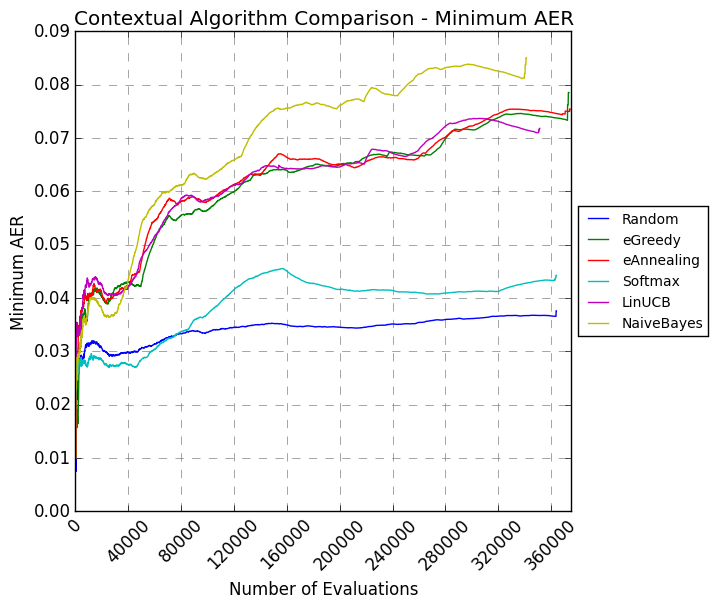
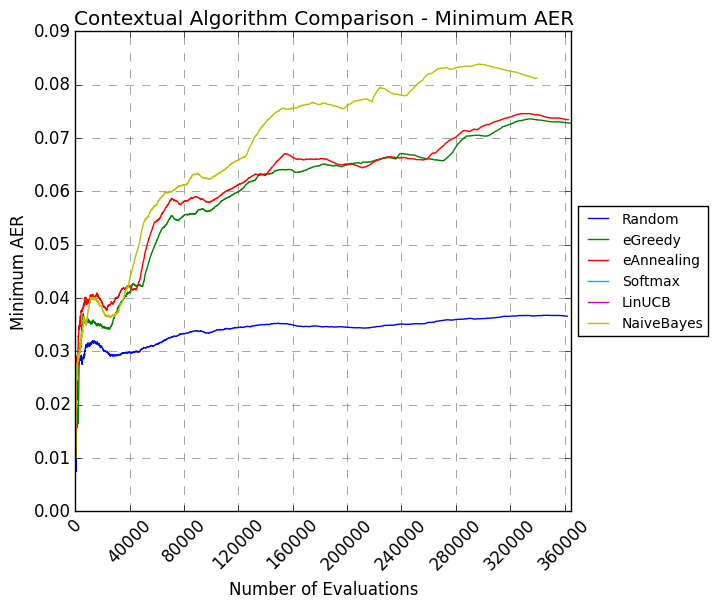
Trimming ensembles to two models

diff --git a/exploChallenge/policies/EnsembleBayesianUpdateAll.py b/exploChallenge/policies/EnsembleBayesianUpdateAll.py
@@ -24,18 +24,11 @@ class EnsembleBayesianUpdateAllModel(ContextualBanditPolicy):
         self.regressor = regressor
         self.prior_alpha = 1.0
         self.prior_beta = 1.0
-        self.policy_one = eAnnealing()
-        self.policy_two = MostCTR()
-        self.policy_three = NaiveBayesContextual()
-        self.policies = [self.policy_one, self.policy_two, self.policy_three]
-        #self.policy_one_count = 0
-        #self.policy_two_count = 0
-        #self.policy_three_count = 0
-        #self.policy_counts = [self.policy_one_count, self.policy_two_count, self.policy_three_count]
+        self.policy_one = MostCTR()
+        self.policy_two = NaiveBayesContextual()
+        self.policies = [self.policy_one, self.policy_two]
+
         self.policy_counts = {}
-        #self.policy_one_successes = 0
-        #self.policy_two_successes = 0
-        #self.policy_three_successes = 0
         self.policy_successes = {}
         self.chosen_policy = None
 
@@ -67,16 +60,12 @@ class EnsembleBayesianUpdateAllModel(ContextualBanditPolicy):
             self.chosen_policy =  str(self.policies[0])
         elif (sampled_theta.index(max(sampled_theta)) == 1):
             self.chosen_policy = str(self.policies[1])
-        elif (sampled_theta.index(max(sampled_theta)) == 2):
-            self.chosen_policy = str(self.policies[2])
         #print "Policy chosen was " + str(self.chosen_policy)
 
-        if (re.match('<exploChallenge\.policies\.eAnnealing',self.chosen_policy)):
+        if (re.match('<exploChallenge\.policies\.MostCTR',self.chosen_policy)):
             return self.policy_one.getActionToPerform(visitor, possibleActions)
-        elif (re.match('<exploChallenge\.policies\.MostCTR',self.chosen_policy)):
-            return self.policy_two.getActionToPerform(visitor, possibleActions)
         elif (re.match('<exploChallenge\.policies\.Naive',self.chosen_policy)):
-            return self.policy_three.getActionToPerform(visitor, possibleActions)
+            return self.policy_two.getActionToPerform(visitor, possibleActions)
         else:
             print "Error in getActionToPerform!"
             return
@@ -90,10 +79,6 @@ class EnsembleBayesianUpdateAllModel(ContextualBanditPolicy):
             pass
         try:
             self.policy_two.updatePolicy(content, chosen_arm, reward)
-        except:
-            pass
-        try:
-            self.policy_three.updatePolicy(content, chosen_arm, reward)
         except:
             pass
 

diff --git a/exploChallenge/policies/EnsembleSoftmaxUpdateAllModel.py b/exploChallenge/policies/EnsembleSoftmaxUpdateAllModel.py
@@ -27,10 +27,9 @@ class EnsembleSoftmaxUpdateAllModel(ContextualBanditPolicy):
 
     def __init__(self, temp):
         # Create an object from each class to use for ensemble model
-        self.policy_one = eAnnealing()
-        self.policy_two = MostCTR()
-        self.policy_three = NaiveBayesContextual()
-        self.policies = [self.policy_one, self.policy_two, self.policy_three]
+        self.policy_one = MostCTR()
+        self.policy_two = NaiveBayesContextual()
+        self.policies = [self.policy_one, self.policy_two]
         self.policy_counts = {}
         self.policy_scores = {}
         self.chosen_policy = None
@@ -61,12 +60,10 @@ class EnsembleSoftmaxUpdateAllModel(ContextualBanditPolicy):
         #print self.chosen_policy
         #print "ID equals: " + str(self.chosen_policy)
 
-        if (re.match('<exploChallenge\.policies\.eAnnealing',self.chosen_policy)):
+        if (re.match('<exploChallenge\.policies\.MostCTR',self.chosen_policy)):
             return self.policy_one.getActionToPerform(visitor, possibleActions)
-        elif (re.match('<exploChallenge\.policies\.MostCTR',self.chosen_policy)):
-            return self.policy_two.getActionToPerform(visitor, possibleActions)
         elif (re.match('<exploChallenge\.policies\.Naive',self.chosen_policy)):
-            return self.policy_three.getActionToPerform(visitor, possibleActions)
+            return self.policy_two.getActionToPerform(visitor, possibleActions)
         else:
             print "Error in getActionToPerform!"
             return
@@ -80,10 +77,6 @@ class EnsembleSoftmaxUpdateAllModel(ContextualBanditPolicy):
             pass
         try:
             self.policy_two.updatePolicy(content, chosen_arm, reward)
-        except:
-            pass
-        try:
-            self.policy_three.updatePolicy(content, chosen_arm, reward)
         except:
             pass
 

diff --git a/exploChallenge/Main.py b/exploChallenge/Main.py
@@ -81,7 +81,7 @@ class Main:
         reader = None
 
         ## Create file to write output to..."a+" option appends
-        outputFile = open("banditOutputsEAnnealingWithTime.txt", "a+")
+        outputFile = open("banditOutputsSoftmaxContextualWithTime.txt", "a+")
         #outputFile = open("testing.txt", "a+")
 
 
@@ -129,9 +129,9 @@ class Main:
         #policyName = "eGreedy" + str(policy.getEpsilon())
         #outputFile.write("Policy: eGreedy" + str(policy.getEpsilon()) + "\n")
 
-        policy = eAnnealing()
-        policyName = "eAnnealing"
-        outputFile.write("Policy: eAnnealing\n")
+        #policy = eAnnealing()
+        #policyName = "eAnnealing"
+        #outputFile.write("Policy: eAnnealing\n")
 
         #policy = Softmax(0.1)
         #policyName = "Softmax" + str(policy.getTemp())
@@ -165,9 +165,9 @@ class Main:
         #policyName = "LinUCB" + str(policy.getAlpha())
         #outputFile.write("Policy: LinUCB\n")
 
-        #policy = SoftmaxContextual(0.1, RidgeRegressor(np.eye(136), np.zeros(136)))
-        #policyName = "SoftmaxContextual" + str(policy.getTemp())
-        #outputFile.write("Policy: SoftmaxContextual" + str(policy.getTemp()) + "\n")
+        policy = SoftmaxContextual(0.1, RidgeRegressor(np.eye(136), np.zeros(136)))
+        policyName = "SoftmaxContextual" + str(policy.getTemp())
+        outputFile.write("Policy: SoftmaxContextual" + str(policy.getTemp()) + "\n")
 
         #policy = NaiveBayesContextual()
         #policyName = "NaiveBayesContextual"

diff --git a/exploChallenge/policies/MostCTR.py b/exploChallenge/policies/MostCTR.py
@@ -15,6 +15,7 @@ class MostCTR(ContextualBanditPolicy):
     def __init__(self):
         self.counts = {}
         self.rates = {}
+        self.total_count = 0
         return
 
     def getActionToPerform(self, visitor,possibleActions):
@@ -26,16 +27,23 @@ class MostCTR(ContextualBanditPolicy):
 
         click_rates = [self.rates[a.getID()] for a in possibleActions]
 
-
         action = possibleActions[rargmax(click_rates)]
         return action
 
     def updatePolicy(self, content, chosen_arm, reward):
-        self.counts[chosen_arm.getID()] += 1
-        n = self.counts[chosen_arm.getID()]
+        try:
+            self.counts[chosen_arm.getID()] += 1
+            n = self.counts[chosen_arm.getID()]
 
-        rate = self.rates[chosen_arm.getID()]
-        new_rate = ((n-1) / float(n)) * rate + (1/float(n)) * reward
-        #print "New rate: " + str(new_rate)
-        self.rates[chosen_arm.getID()] = new_rate
+            rate = self.rates[chosen_arm.getID()]
+            new_rate = ((n-1) / float(n)) * rate + (1/float(n)) * reward
+            #new_rate_2 = rate + (reward - rate) / (n + 1)
+            #print "New rate: " + str(new_rate)
+            #print "Old rate: " + str(new_rate_2)
+            self.total_count += 1
+            # if self.total_count % 100 == 0:
+            #     print "Delta: " + str(new_rate_2-new_rate)
+            self.rates[chosen_arm.getID()] = new_rate
+        except:
+            pass
         return

diff --git a/create_max_aer_plot.py b/create_max_aer_plot.py
@@ -41,6 +41,7 @@ ax.set_xlim([0, max(data['t'])])
 ax.set_axisbelow(True)
 ax.xaxis.grid(color='gray', linestyle='dashed')
 ax.yaxis.grid(color='gray', linestyle='dashed')
+ax.set_ylim([0.03,0.10])
 #ax.get_xaxis().set_major_locator(MaxNLocator(integer=True))
 ax.xaxis.set_major_formatter(majorFormatter)
 #for ymaj in ax1.yaxis.get_majorticklocs():

diff --git a/exploChallenge/policies/eAnnealing.py b/exploChallenge/policies/eAnnealing.py
@@ -56,7 +56,6 @@ class eAnnealing(ContextualBanditPolicy):
             # Calculate revised AER of this arm
             new_value = ((n-1) / float(n)) * value + (1/float(n)) * reward
             self.values[chosen_arm.getID()] = new_value
-
             return
         except:
             return
